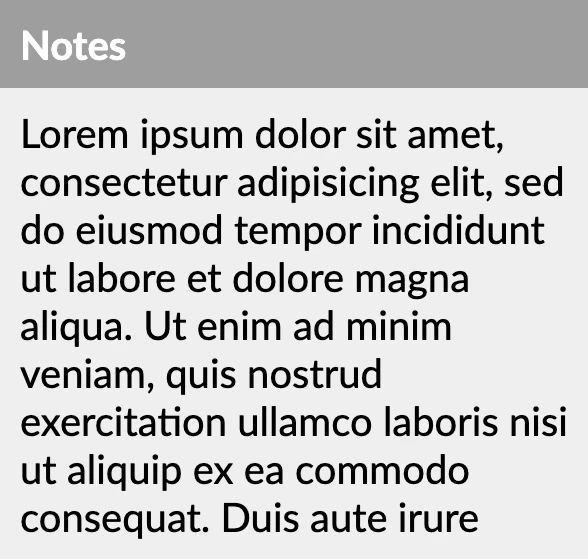
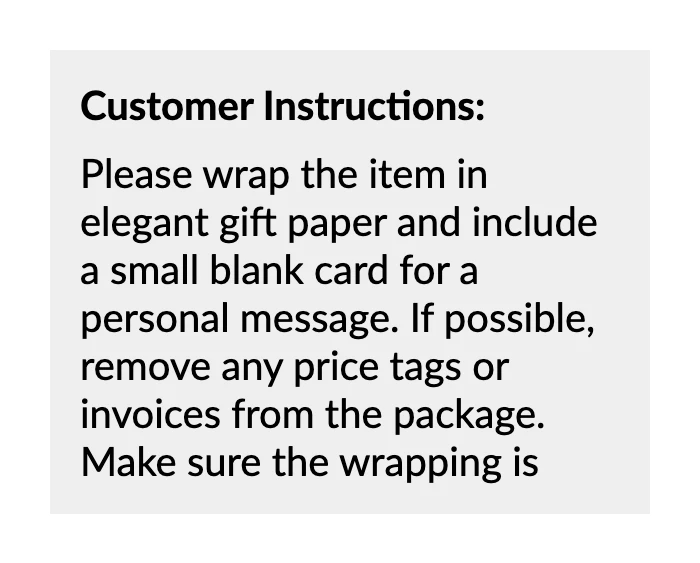
Decoration: improved documentation

diff --git a/docs/api-reference/decoration.md b/docs/api-reference/decoration.md
@@ -25,23 +25,25 @@ If the main `content` spans across multiple pages, both the `before` and `after`
 
 A typical use-case for this method is to render a table that spans multiple pages, with a consistent caption or header on each page.
 
-```c#{4,7,13}
+```c#{4,7,16}
 container
-    .MaxHeight(300)
-    .MaxWidth(300)
+    .Background(Colors.Grey.Lighten3)
+    .Padding(15)
     .Decoration(decoration =>
     {
         decoration
             .Before()
-            .Background(Colors.Grey.Medium)
-            .Padding(10)
-            .Text("Notes").FontColor("#FFF").Bold();
-    
+            .DefaultTextStyle(x => x.Bold())
+            .Column(column =>
+            {
+                column.Item().ShowOnce().Text("Customer Instructions:");
+                column.Item().SkipOnce().Text("Customer Instructions [continued]:");
+            });
+
         decoration
             .Content()
-            .Background(Colors.Grey.Lighten3)
-            .Padding(10)
-            .Text(Helpers.Placeholders.LoremIpsum());
+            .PaddingTop(10)
+            .Text("Please wrap the item in elegant gift paper and include a small blank card for a personal message. If possible, remove any price tags or invoices from the package. Make sure the wrapping is secure but easy to open without damaging the contents.");
     });
 ```
 
